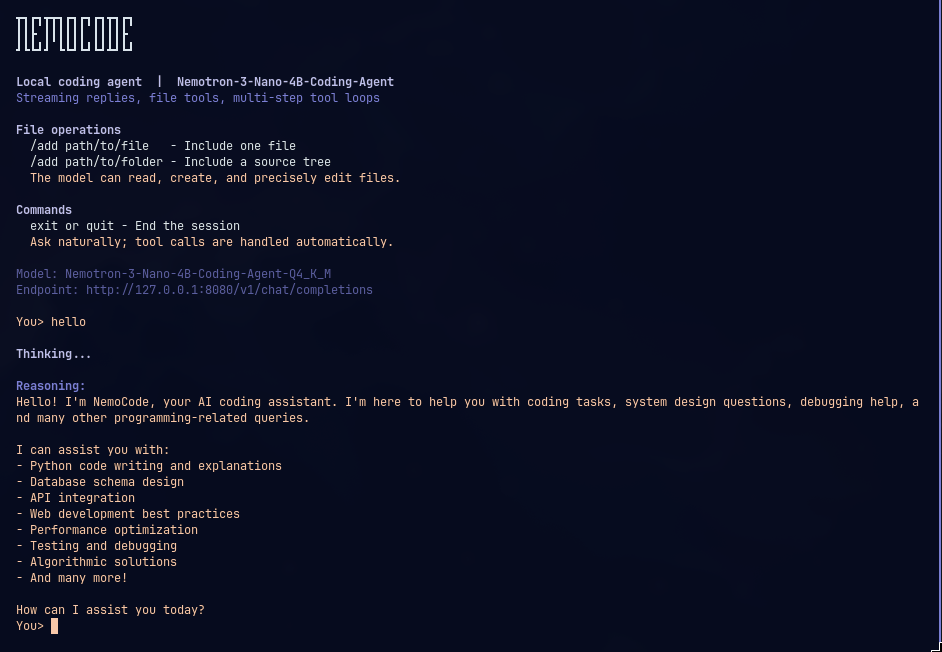
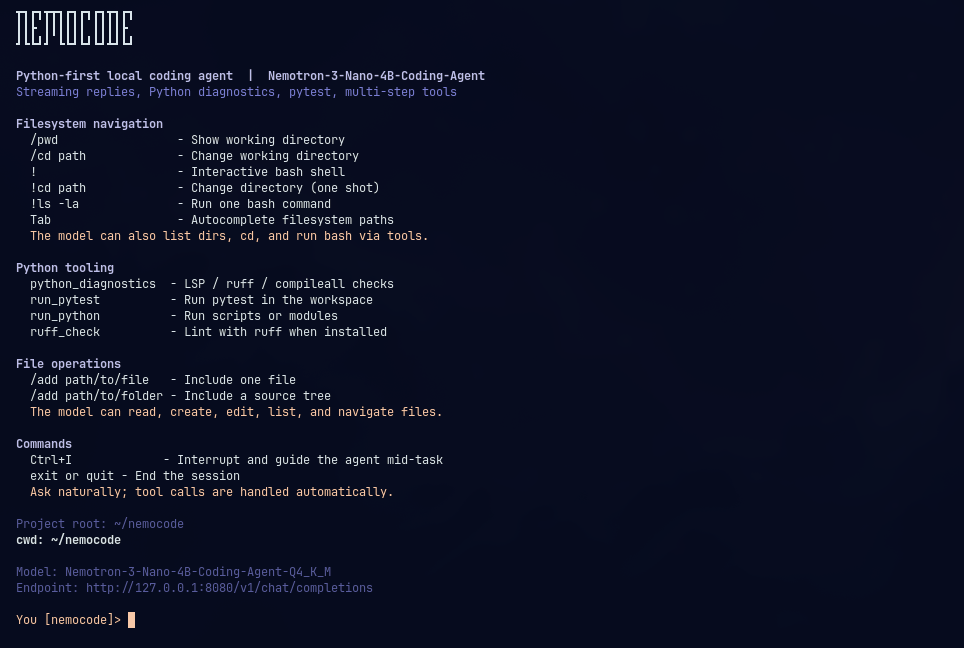
Update README screenshots for the Python-first welcome and launch flow.

diff --git a/README.md b/README.md
@@ -15,7 +15,7 @@ through file tools and bash. Out of the box it uses one model only:
 ┛┗┗┛┛ ┗┗┛┗┛┗┛┻┛┗┛
 ```
 
-![NemoCode interactive session](docs/assets/session.png)
+![NemoCode Python-first welcome screen](docs/assets/session.png)
 
 ## What it does
 
@@ -68,7 +68,7 @@ The startup script will:
 
 ![First-run model download](docs/assets/startup-download.png)
 
-![Local model server ready](docs/assets/startup-ready.png)
+![Local model server ready and NemoCode launching](docs/assets/startup-ready.png)
 
 ## Launch rule
 